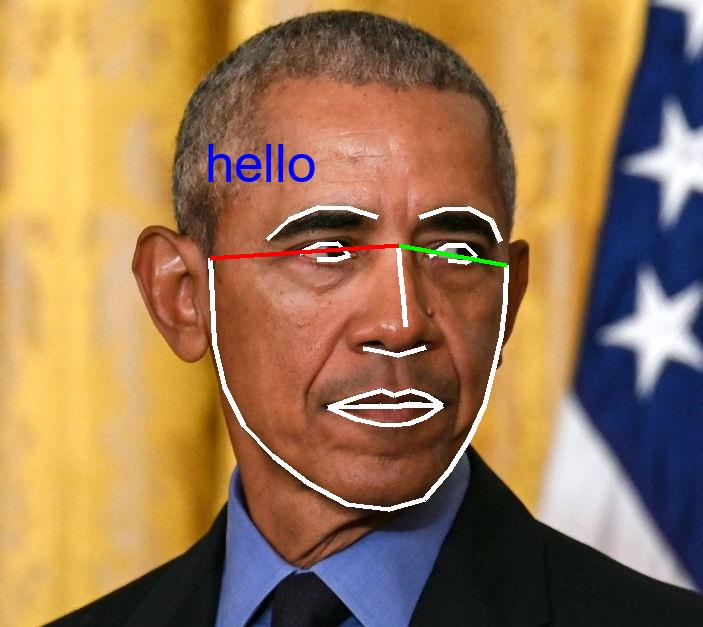
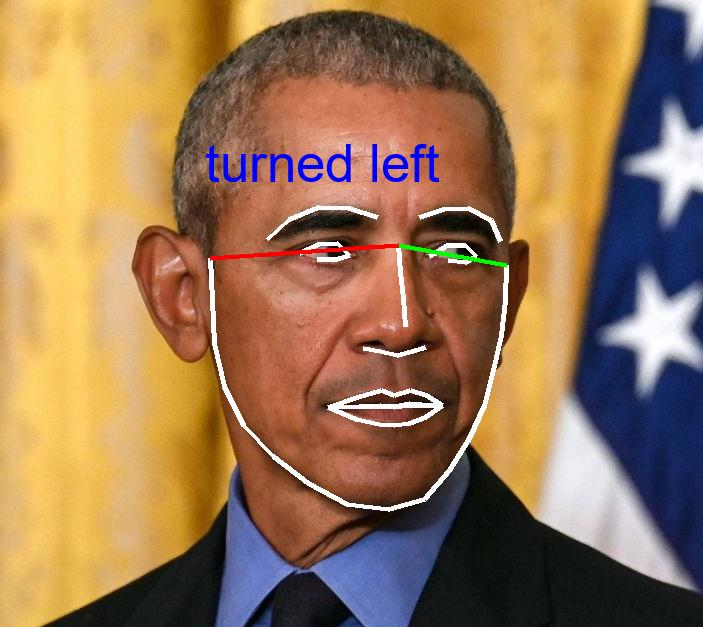
Update files: head_turn/detect_head_turn.py head_turn/out_obama.jpg head_turn/out_obama_turn_left.jpg head_turn/out_obama_turn_right.jpg left.jpg straight.jpg

Changed region(s): [[0.2688, 0.2121, 0.6273, 0.303]]

diff --git a/head_turn/detect_head_turn.py b/head_turn/detect_head_turn.py
@@ -5,13 +5,14 @@ Detect head turn
 from PIL import Image, ImageDraw, ImageFont
 import face_recognition
 import argparse
+import math
 
-argparser = argparse.ArgumentParser("Find facial landmarks")
+argparser = argparse.ArgumentParser("Detect head turn")
 argparser.add_argument(
     "-i",
     "--image_file",
     default="obama.jpg",
-    help="Image file to find facial landmarks",
+    help="Image file to detect head turn",
 )
 args = argparser.parse_args()
 
@@ -24,7 +25,7 @@ image = face_recognition.load_image_file(image_file)
 # Find all facial features in all the faces in the image
 face_landmarks_list = face_recognition.face_landmarks(image)
 num_faces = len(face_landmarks_list)
-print(f"I found {num_faces} face(s) in this photograph.")
+print(f"Found {num_faces} face(s) in this photograph.")
 # Get locations of all the faces in the image
 face_locations = face_recognition.face_locations(image)
 
@@ -51,9 +52,7 @@ def point_distance(p1,p2):
 face_landmarks = face_landmarks_list[0]
 # Let's trace out each facial feature in the image with a line!
 for facial_feature in facial_features:
-    print(
-        f"{facial_feature} has {len(face_landmarks[facial_feature])} points: {face_landmarks[facial_feature]}"
-    )
+    # print(f"{facial_feature} has {len(face_landmarks[facial_feature])} points: {face_landmarks[facial_feature]}")
     d.line(face_landmarks[facial_feature], width=5)
 
 # draw left chin to nose top in green
@@ -61,16 +60,30 @@ d.line(face_landmarks["chin"][-1:] + face_landmarks["nose_bridge"][:1], width=5,
 # draw right chin to nose top in red
 d.line(face_landmarks["chin"][:1] + face_landmarks["nose_bridge"][:1], width=5, fill=(255, 0, 0))
 
-# 
-
+# right / left chin ratio
+left_chin_green = point_distance(face_landmarks["chin"][-1], face_landmarks["nose_bridge"][0])
+right_chin_red = point_distance(face_landmarks["chin"][0], face_landmarks["nose_bridge"][0])
+right_to_left_ratio = right_chin_red / left_chin_green
+left_to_right_ratio = left_chin_green / right_chin_red
 
 ## Add the text to the image
+threshold = 1.3
+if left_to_right_ratio > threshold:
+    turned = "turned right"
+    print(f"green / red = {left_to_right_ratio:.1f}, {turned}")
+elif right_to_left_ratio > threshold:
+    turned = "turned left"
+    print(f"red / green = {right_to_left_ratio:.1f}, {turned}")
+else:
+    turned = "facing straight"
+    print(f"red / green = {right_to_left_ratio:.1f}, {turned}")
+
 top, right, bottom, left = face_locations[0]
 position = (left, top)
 font_size = (right - left) // 6 # relative to face size
 font = ImageFont.truetype("arial.ttf", size=font_size)
 text_color = (0, 0, 255)  # RGB color
-d.text(position, 'hello', fill=text_color, font=font)
+d.text(position, turned, fill=text_color, font=font)
 
 # Save drawed image
 out_file = "out_" + image_file
